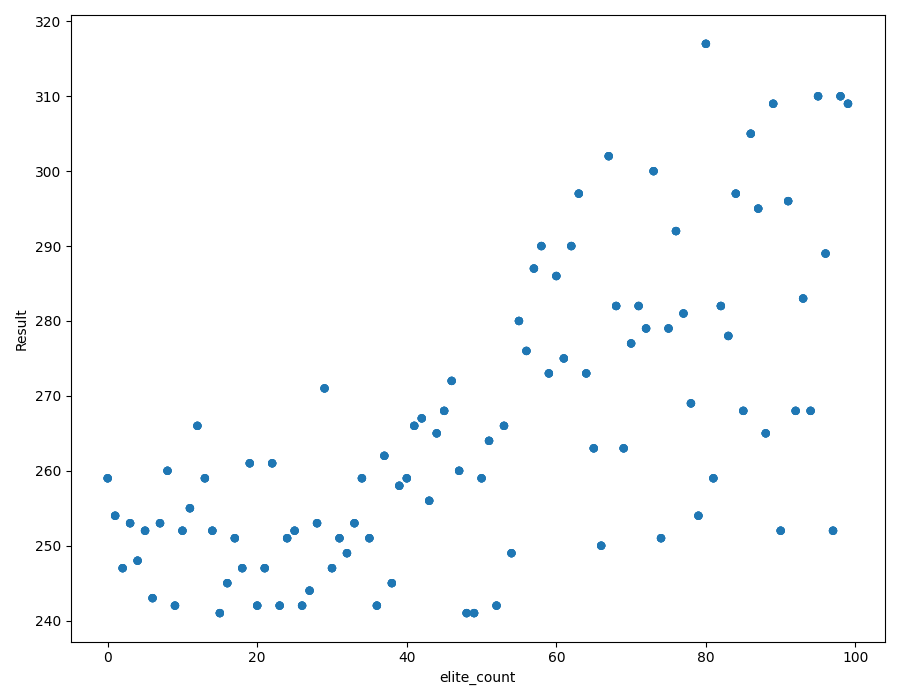
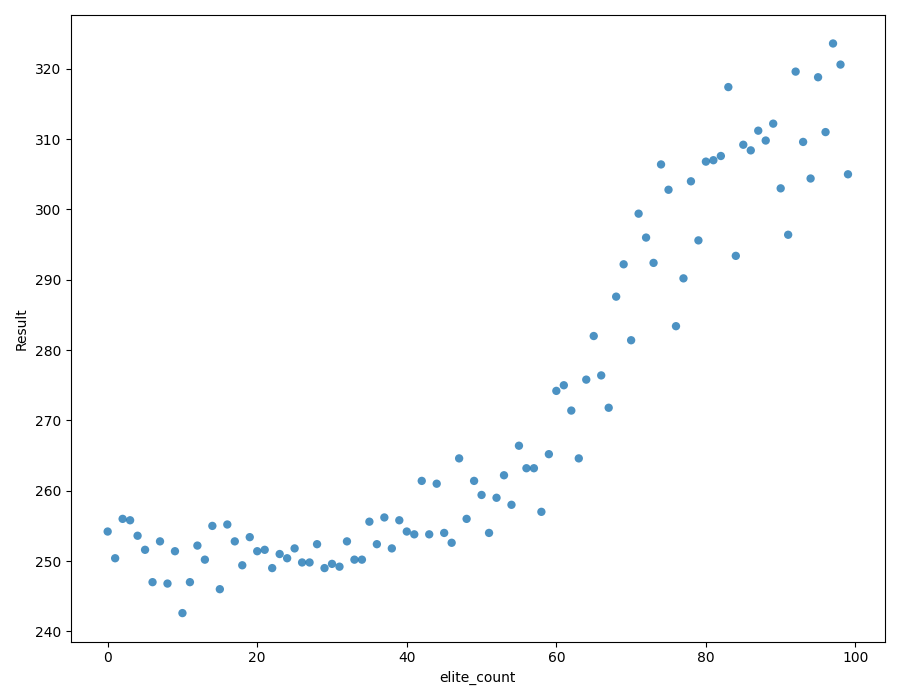
last experiment

diff --git a/plot_experiment_results.py b/plot_experiment_results.py
@@ -49,18 +49,25 @@ from math import log2
 #fname_regex = re.compile(r"^elite_count_(\d+).csv$")
 
 # population_solo
-#changing_variables_ga = ["population_size"]
-#changing_variables_bee = ["colony_size"]
-#config_file = "configs\\population_solo_experiment.json"
-#results_folder = "results\\population_solo"
-#fname_regex = re.compile(r"^population_solo_(\d+).csv$")
+changing_variables_ga = ["population_size"]
+changing_variables_bee = ["colony_size"]
+config_file = "configs\\population_solo_experiment.json"
+results_folder = "results\\population_solo"
+fname_regex = re.compile(r"^population_solo_(\d+).csv$")
 
 # generations
-changing_variables_ga = ["generations"]
-changing_variables_bee = []
-config_file = "configs\\generations_experiment.json"
-results_folder = "results\\generations"
-fname_regex = re.compile(r"^generations_(\d+).csv$")
+#changing_variables_ga = ["generations"]
+#changing_variables_bee = []
+#config_file = "configs\\generations_experiment.json"
+#results_folder = "results\\generations"
+#fname_regex = re.compile(r"^generations_(\d+).csv$")
+
+# tournament_size
+#changing_variables_ga = ["tournament_size"]
+#changing_variables_bee = []
+#config_file = "configs\\tournament_size_experiment.json"
+#results_folder = "results\\tournament_size"
+#fname_regex = re.compile(r"^tournament_size_(\d+).csv$")
 
 
 budget_regex = re.compile(r"road_buget_(\d+).json")